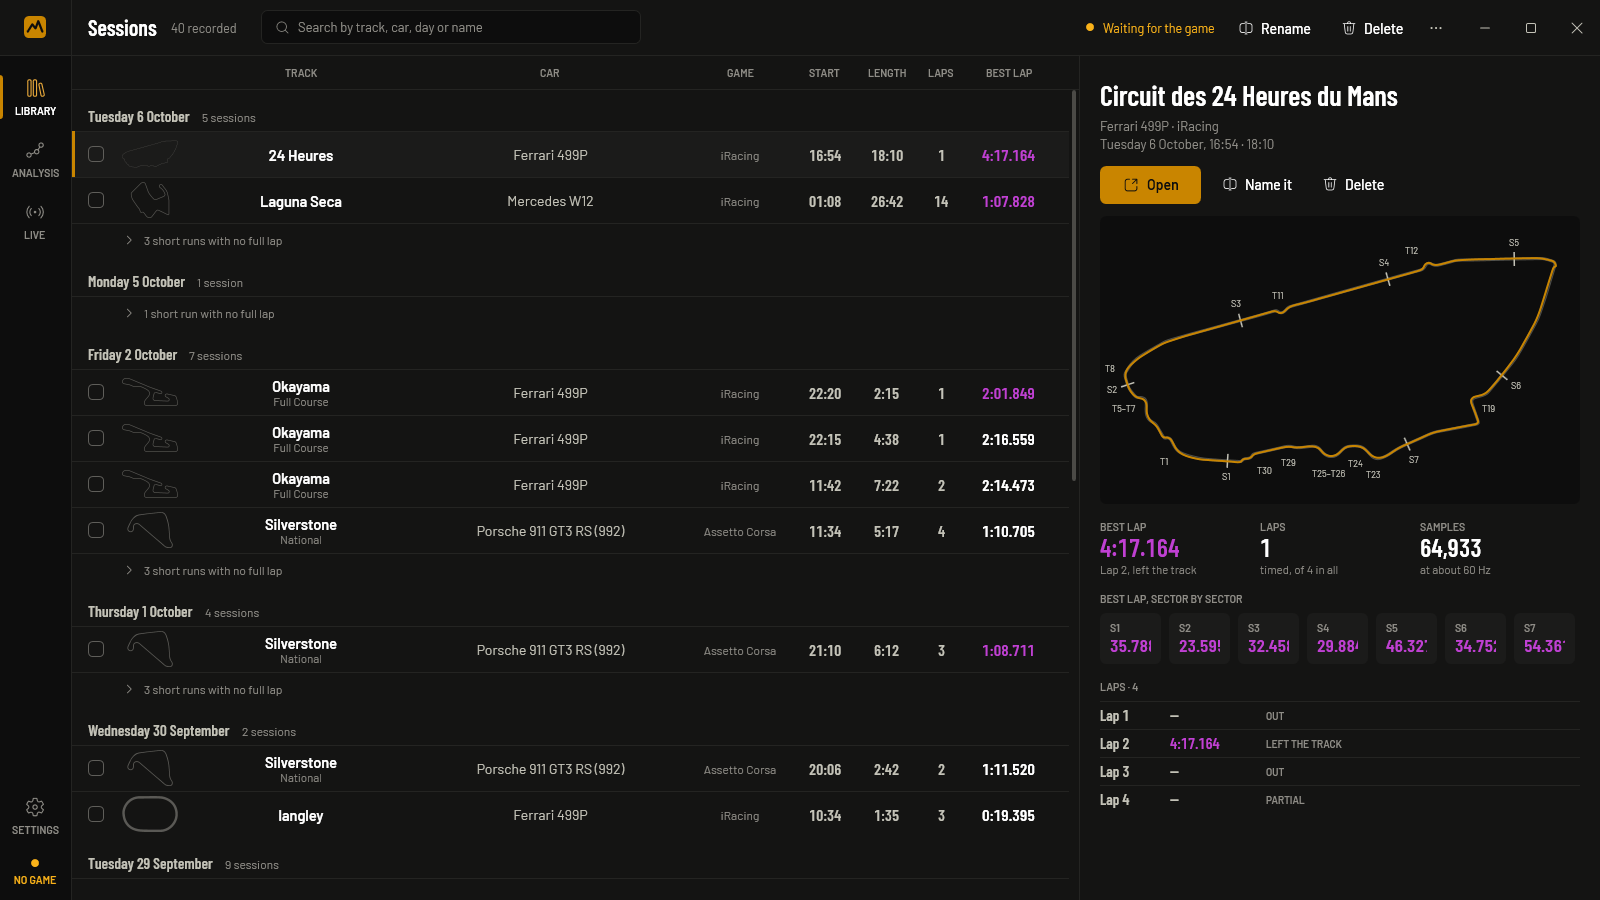
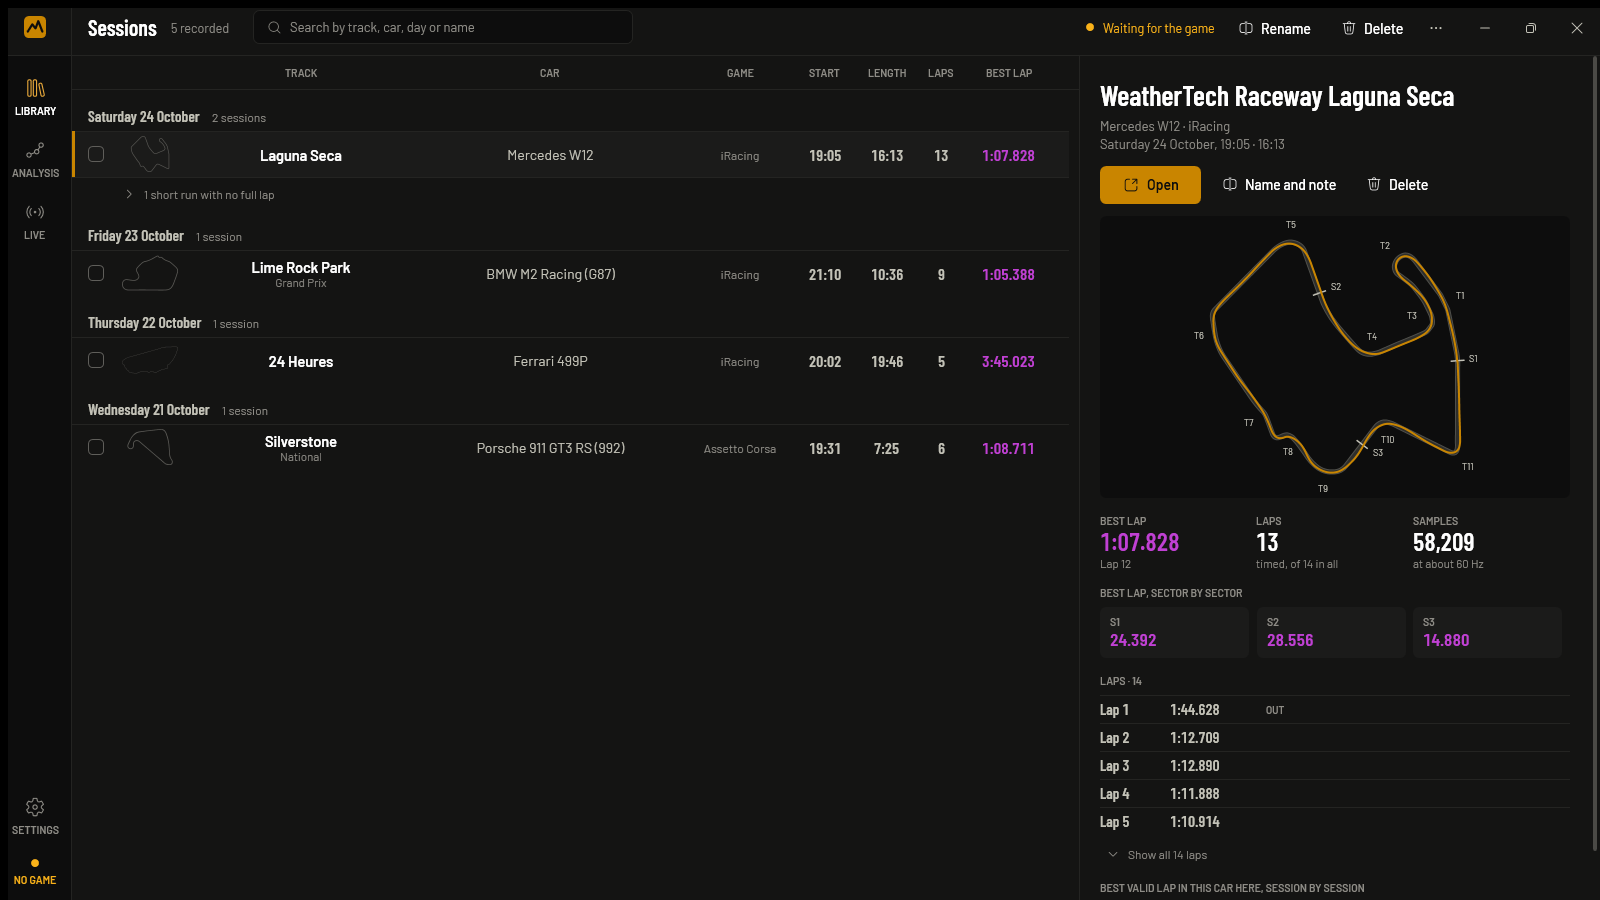
docs: new screenshots, Live, the dash, the overlay and the shift lights, and what 0.9 and 0.10 added

diff --git a/README.md b/README.md
@@ -11,7 +11,7 @@ Get **Telemetry.exe** from the [latest release](https://github.com/GalloFrancesc
 
 Windows says the publisher is unrecognised because the executable isn't code signed. Choose **More info**, then **Run anyway**.
 
-The app tells you when a newer version is out and updates itself from Settings. Each release also carries `Telemetry.exe.sha256`, so you can check a download yourself.
+The app tells you when a newer version is out, shows what's new in it, and updates itself from Settings. Each release also carries `Telemetry.exe.sha256`, so you can check a download yourself.
 
 ## Games
 
@@ -24,7 +24,7 @@ Start the app before or after the game. It finds whichever game is on track and 
 
 Every session is recorded at about 95 samples a second from Assetto Corsa and 60 from iRacing (iRacing's own rate). The app records speed, pedals, gear, steering, RPM, lap and sector times, position on track, tyres, fuel, g-forces, suspension, aids and brake bias. A session in which the car never moved is not kept.
 
-The library lists sessions by day, with the circuit, car, length, laps and best lap. You can search, rename and delete them. Short runs with no full lap fold into a single row.
+The library lists sessions by day, with the circuit, car, length, laps and best lap. You can search, rename and delete them, and give each one a note ("new tyres", "setup v3") to tell sessions apart later. Short runs with no full lap fold into a single row. A session's preview shows its map, best lap and sectors, and your best lap in that car on that circuit, session by session, so you can see whether you're getting quicker.
 
 ![The session library](images/library.png)
 
@@ -40,7 +40,7 @@ Open a session and pick two laps: a reference and the lap to compare with it. Th
 
 ![Corner T2 picked: the charts zoomed to the corner, and its time split into braking, entry, apex and exit](images/corner.png)
 
-The corners table puts every lap against every corner, so you can see which corners you drive the same way every lap and which you don't. Its last row adds up your best time through each stretch into a theoretical best lap.
+The corners table puts every lap against every corner. Its theoretical best row adds up your best time through each stretch into a lap, and its consistency row shows how far your typical lap is from your quickest in each corner: the corners where practice pays.
 
 ![The corners table: every lap's time through every stretch of Laguna Seca, and the theoretical best](images/table.png)
 
@@ -55,10 +55,22 @@ The circuit is saved with the recording, so a session still opens with its map o
 
 ## While driving
 
-- **Live** opens by itself when you go on track. It shows a timing screen, live traces and the map, with your best lap as a ghost car.
-- **Dash:** a fullscreen dash with revs, speed, gear, delta to your best lap, lap and sector times, inputs and tyres. **M** moves it to another monitor, **Esc** closes it.
+- **Live** opens by itself when you go on track. It shows a timing screen, the lap so far against your best on the same charts as the review screen, the map with your best lap as a ghost car, and the time gained or lost in each corner as you drive it. The delta can be to this session's best lap or to your best ever in that car on that circuit. When you leave the track, it sums the session up: best lap, theoretical best, against your best ever, and your most and least consistent corners.
+
+![Live on lap 11 at Laguna Seca: half a second up on the best lap, with the corners driven so far](images/live.png)
+
+- **Dash:** a fullscreen dash with revs, speed, gear, delta to your best lap, lap and sector times, inputs, tyres, and fuel with the laps it's good for. **M** moves it to another monitor, **Esc** closes it.
+
+![The dash at 227 km/h in fifth, with the shift lights nearly full](images/dash.png)
+
 - **Overlay:** a strip of telemetry over the game, with cells you can rearrange. The game has to run borderless windowed, because nothing can draw over exclusive fullscreen.
+
+![The overlay](images/overlay.png)
+
 - **Shift lights:** they light up and flash at the car's shift points. They can sit in the overlay or in a window of their own.
+
+![The shift lights just before an upshift](images/shift-lights.png)
+
 - **Remote dash:** the same dash in a browser on a phone or tablet on your home network. It has no password, so turn it on only on a network you trust.
 
 ## Your data
